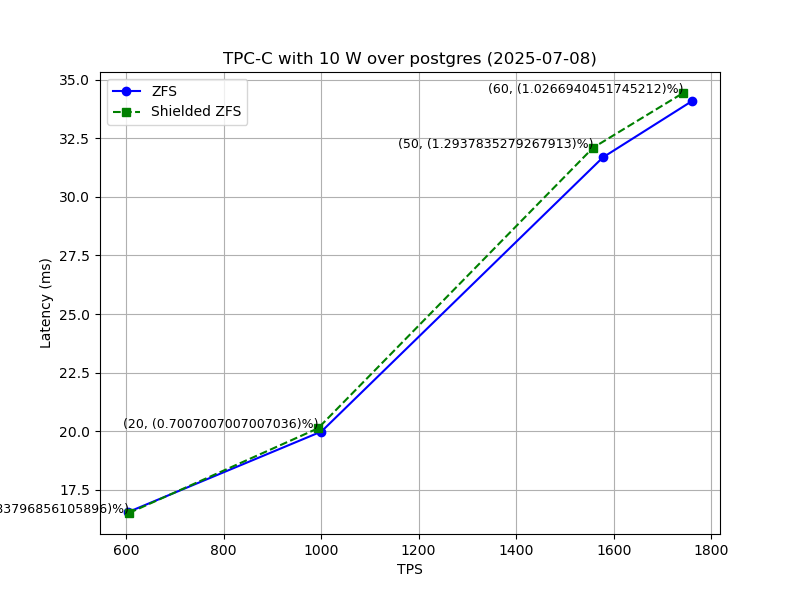
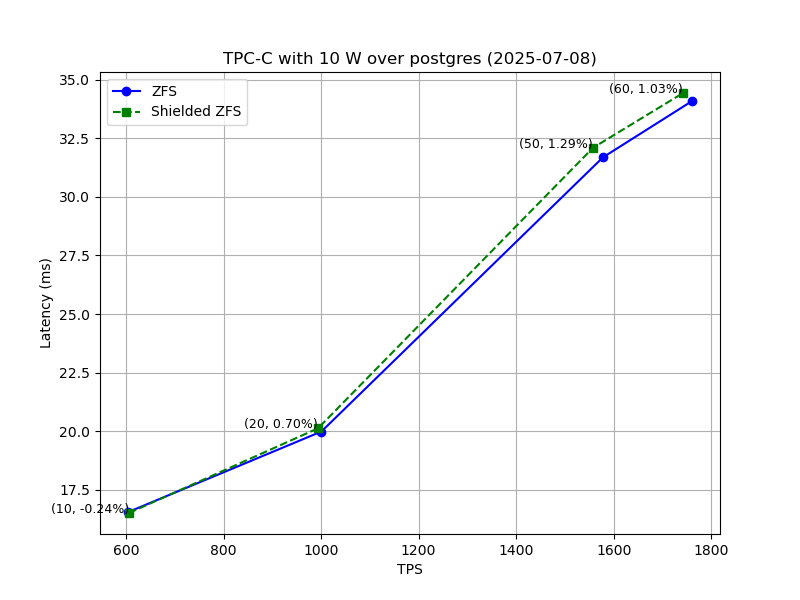
formatting fixes

diff --git a/postgres-exp-user-to-kernel-com/third-round/plot.py b/postgres-exp-user-to-kernel-com/third-round/plot.py
@@ -28,7 +28,7 @@ plt.plot(throughput_szfs, latency_szfs, 's--', label='Shielded ZFS', color='gree
 
 # Add text on top of the data points
 for i in range(len(latency_szfs)):
-    plt.text(throughput_szfs[i], latency_szfs[i], f'({clients[i]}, ({100*((latency_szfs[i] - latency_zfs[i])/latency_zfs[i])})%)',fontsize=9, ha='right'
+    plt.text(throughput_szfs[i], latency_szfs[i], f'({clients[i]}, {100*((latency_szfs[i] - latency_zfs[i])/latency_zfs[i]):.2f}%)',fontsize=9, ha='right'
 )
 
 title = f'TPC-C with 10 W over postgres ({date_string})'
